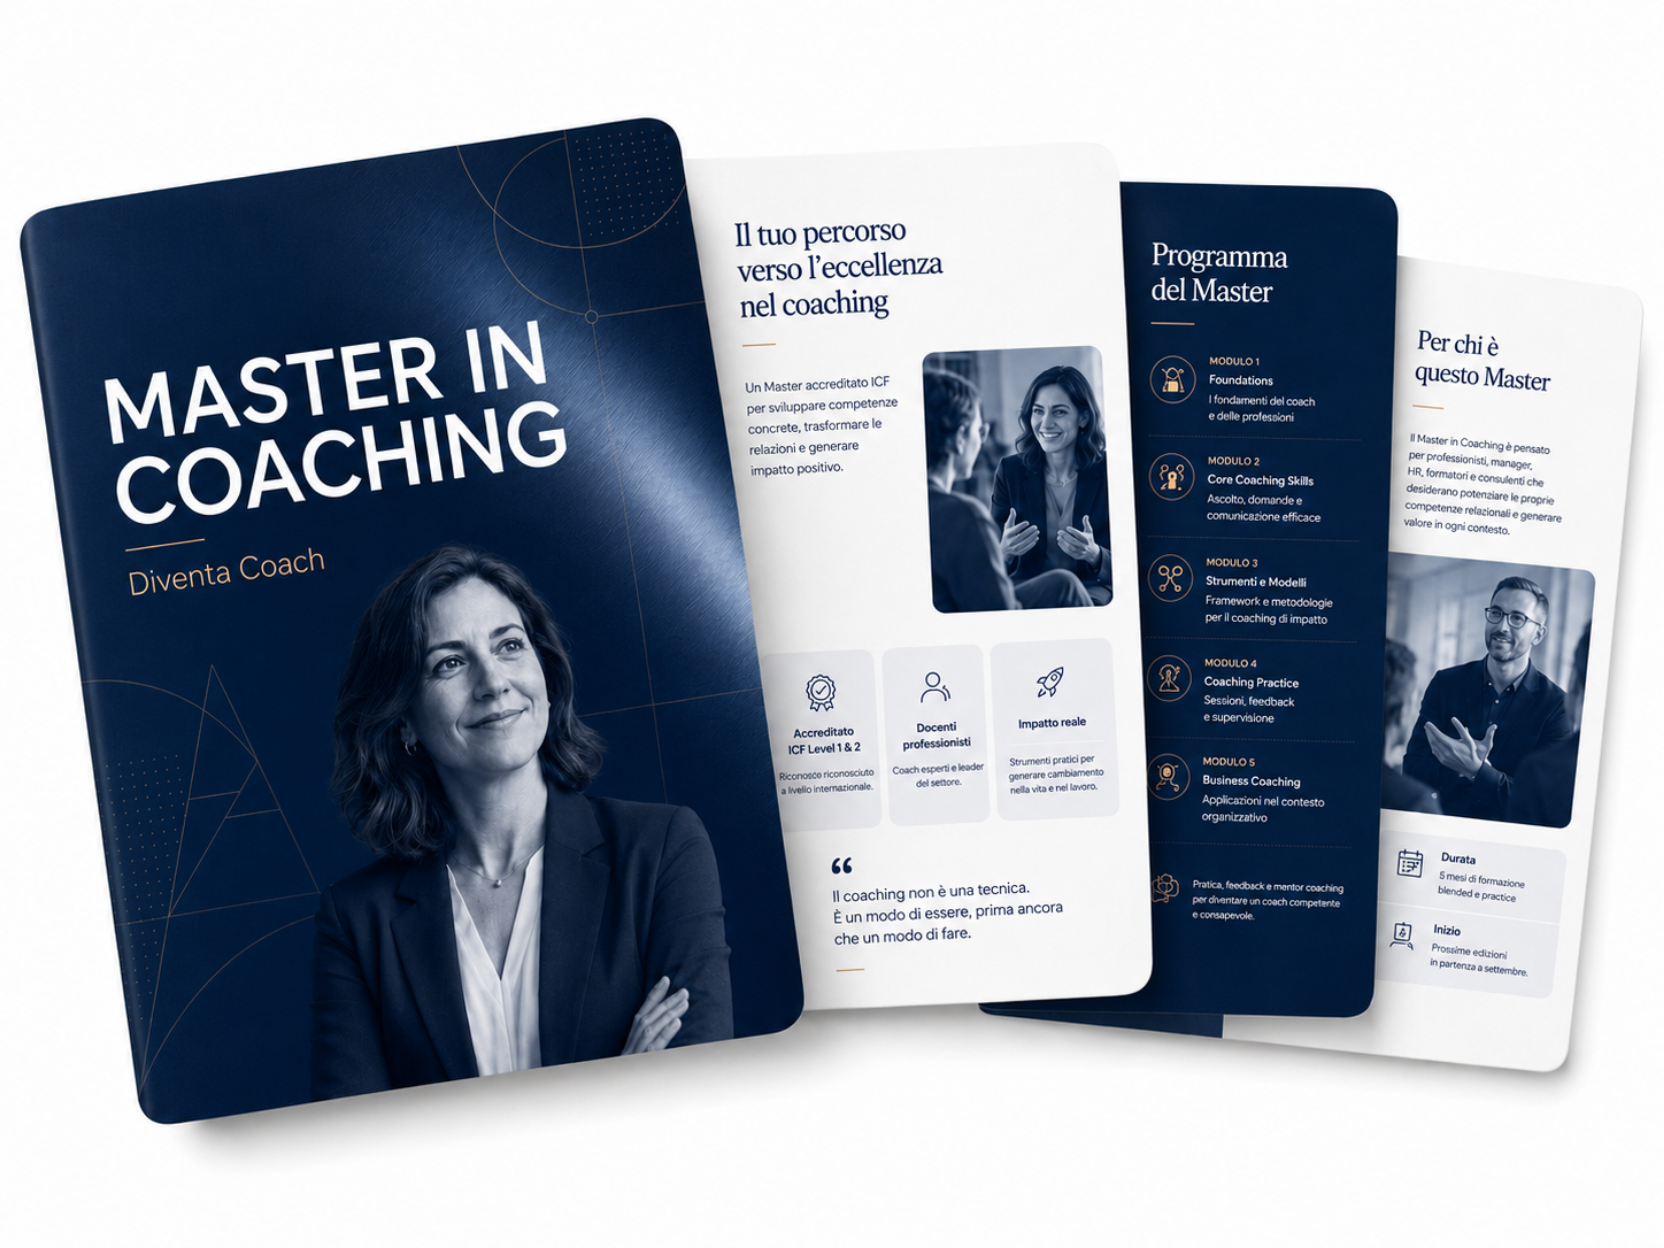
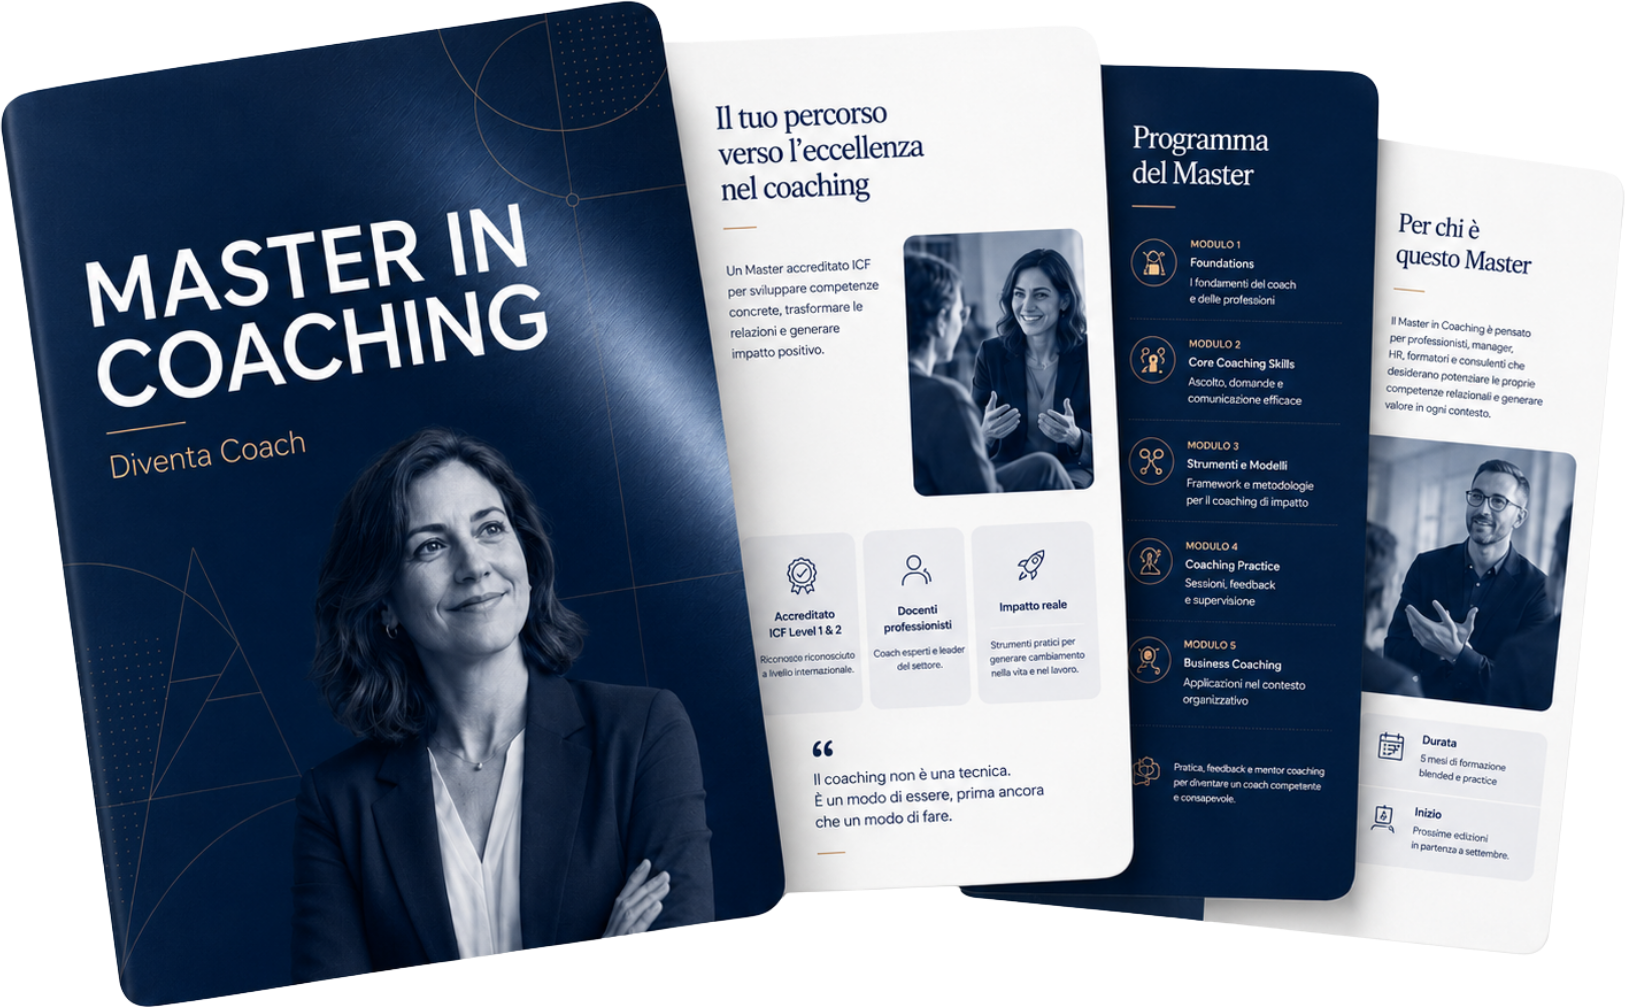
broch

diff --git a/src/constants/coursesContent.tsx b/src/constants/coursesContent.tsx
@@ -1193,7 +1193,7 @@ export const coursesContent: Record<string, CourseData> = {
     media: {
       hero: "/course-media/systemic-team-coaching/hero-astc.png",
       overview: "/course-media/systemic-team-coaching/astc-modello-pitto.png",
-      brochureDecor: "/course-media/systemic-team-coaching/asterys-systemic-team-coaching-lab.png",
+      brochureDecor: "/course-media/systemic-team-coaching/brochure.png",
       completePractical: "/course-media/apcm/supervision-mentor.png",
       completePlatform: "/course-media/apcm/platform-ui.png",
       howItWorks: "/course-media/apcm/how-master.jpg",
@@ -1565,6 +1565,7 @@ export const coursesContent: Record<string, CourseData> = {
     type: "WORKOUT EQ",
     media: {
       hero: "/course-media/eiw/hero.png",
+      brochureDecor: "/course-media/eiw/brochure.png",
       overview: "/course-media/eiw/plutchik.png",
       howItWorks: "/course-media/apcm/how-master.jpg"
     },
@@ -1758,6 +1759,7 @@ export const coursesContent: Record<string, CourseData> = {
     heroKicker: "PER RINNOVARE LA TUA CREDENZIALE ICF",
     media: {
       hero: "/course-media/coaching-circle/hero-coaching-circle.png",
+      brochureDecor: "/course-media/coaching-circle/brochure.png",
       overview: "/course-media/coaching-circle/how-coaching-circle.png",
       howItWorks: "/course-media/apcm/how-master.jpg",
     },
@@ -1962,6 +1964,7 @@ export const coursesContent: Record<string, CourseData> = {
     type: "COMUNICAZIONE",
     media: {
       hero: "/course-media/public-speaking/hero-public-speaking.png",
+      brochureDecor: "/course-media/public-speaking/brochure.png",
       overview: "/course-media/public-speaking/overview-psp.jpg",
       howItWorks: "/course-media/apcm/how-master.jpg",
       completePractical: "/course-media/apcm/supervision-mentor.png",
@@ -2039,6 +2042,7 @@ export const coursesContent: Record<string, CourseData> = {
     heroKicker: "PER COACH E PROFESSIONISTI DELLO SVILUPPO",
     media: {
       hero: "/course-media/voice-dialogue/hero-voice-dialogue.png",
+      brochureDecor: "/course-media/voice-dialogue/brochure.png",
       overview: "/course-media/voice-dialogue/overview-voice-dialogue.png",
       howItWorks: "/course-media/apcm/how-master.jpg",
       completePractical: "/course-media/apcm/supervision-mentor.png",
